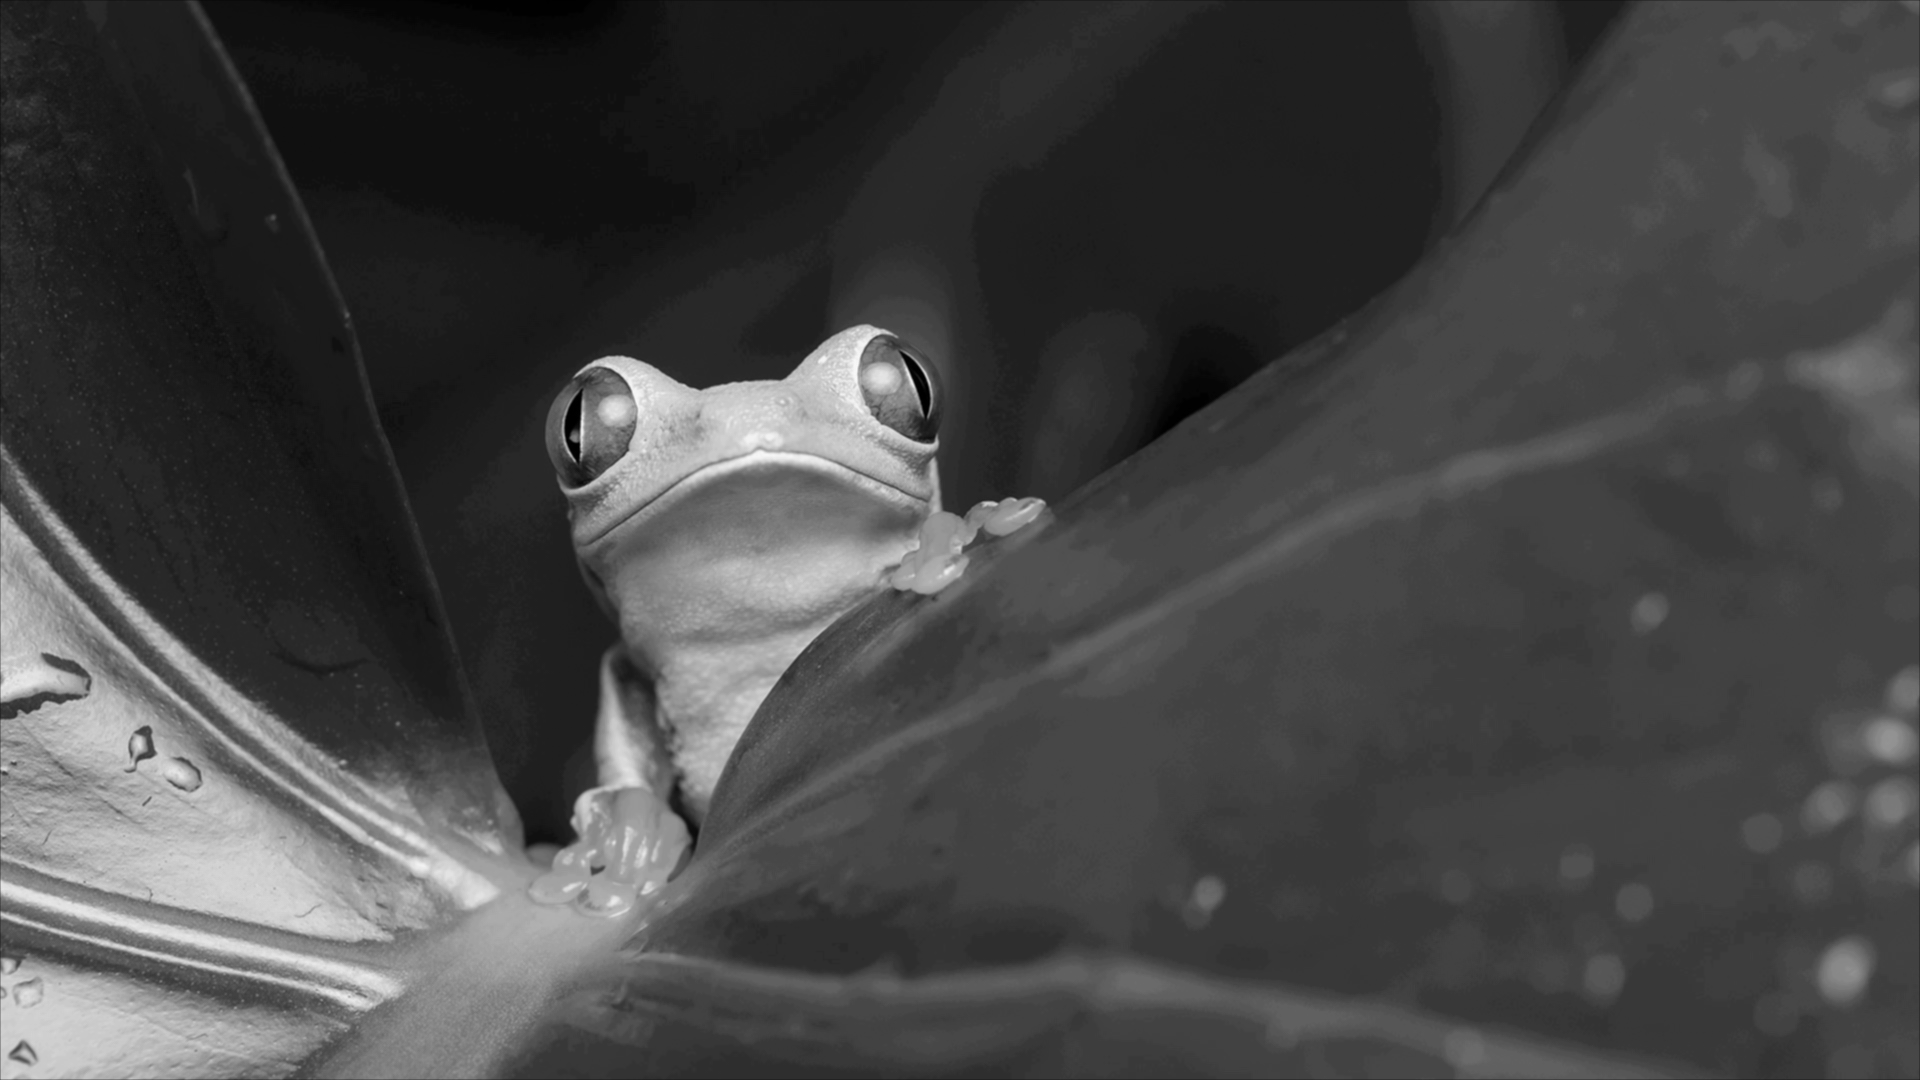
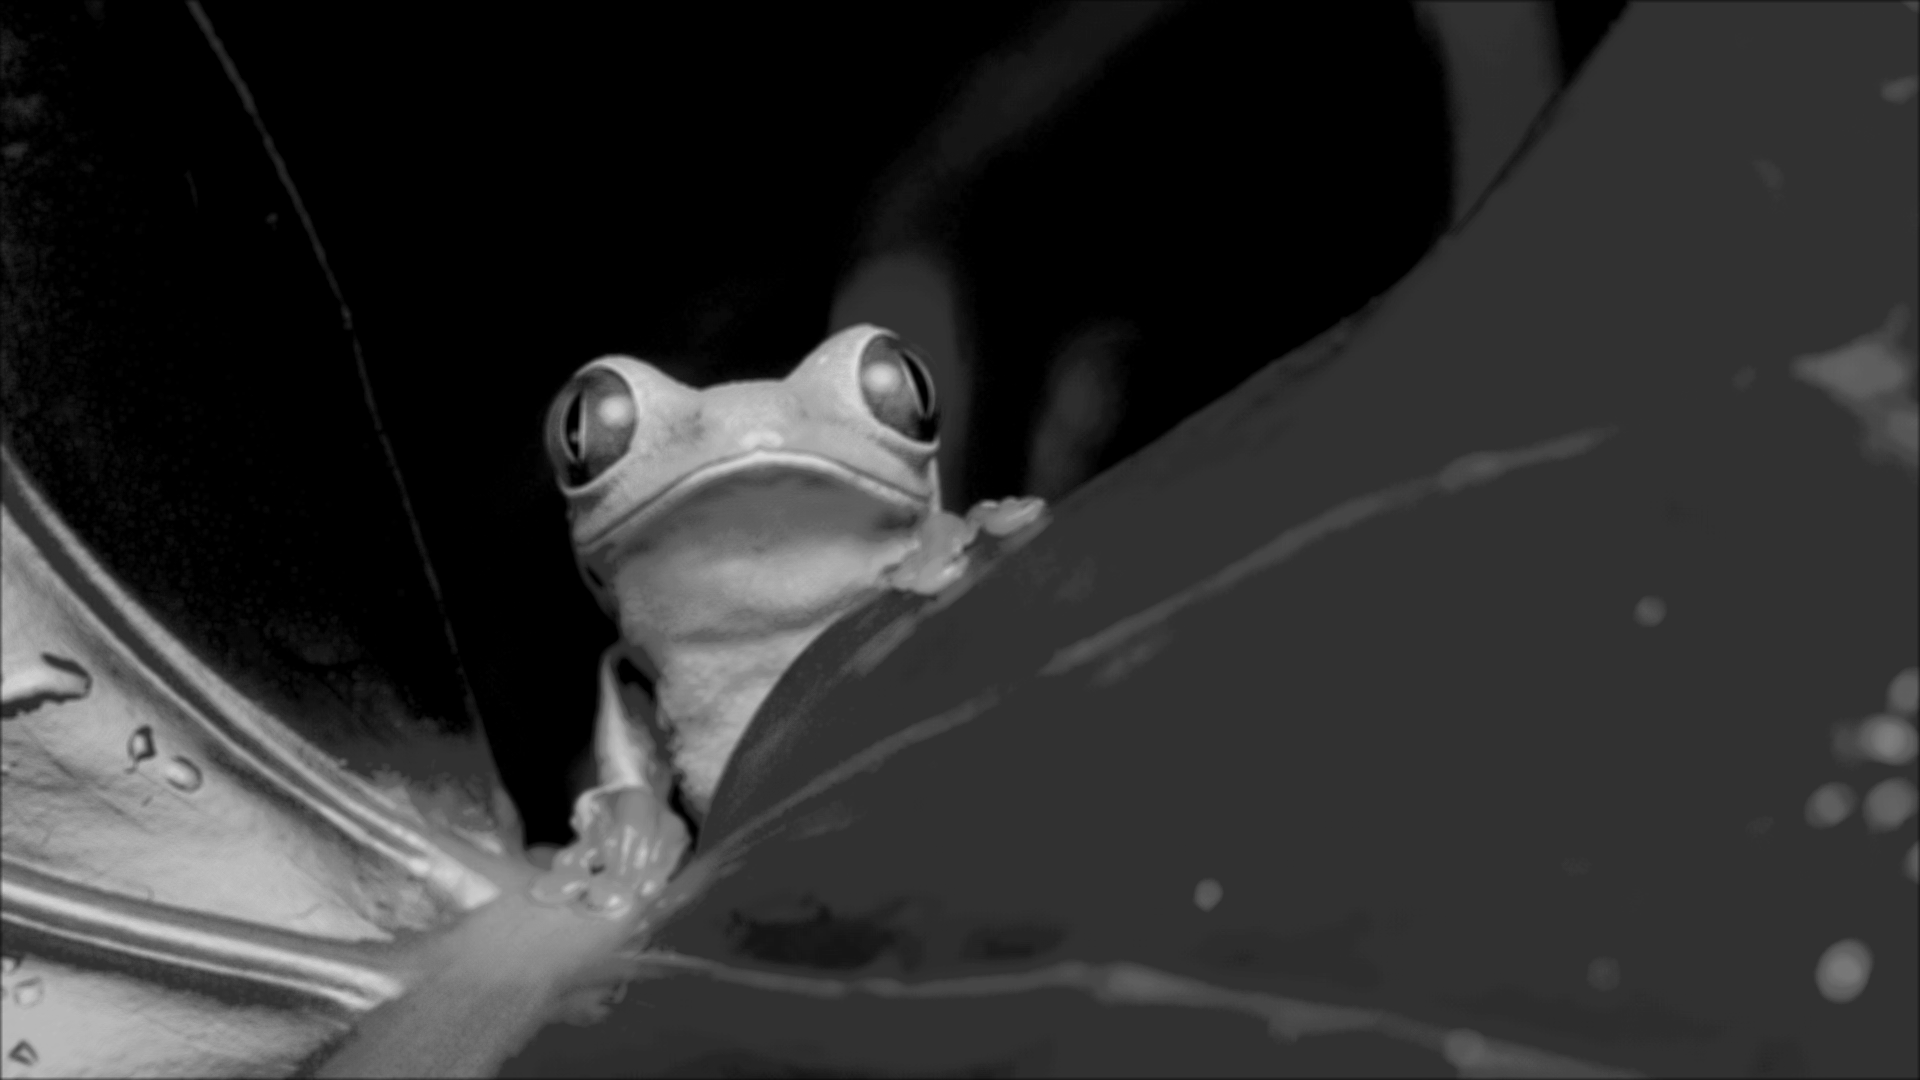
Added example edge detection

diff --git a/sequential/main.c b/sequential/main.c
@@ -221,7 +221,7 @@ short *threshold(short *data, short int height, short int width,
   }
 
   short high_threshold = max * high_ratio;
-  short low_threshold = high_threshold * low_ratio;
+  short low_threshold = max * low_ratio;
   for (unsigned short i = 0; i < width; i++) {
     for (unsigned short j = 0; j < height; j++) {
       if (data[j * width + i] >= high_threshold) {
